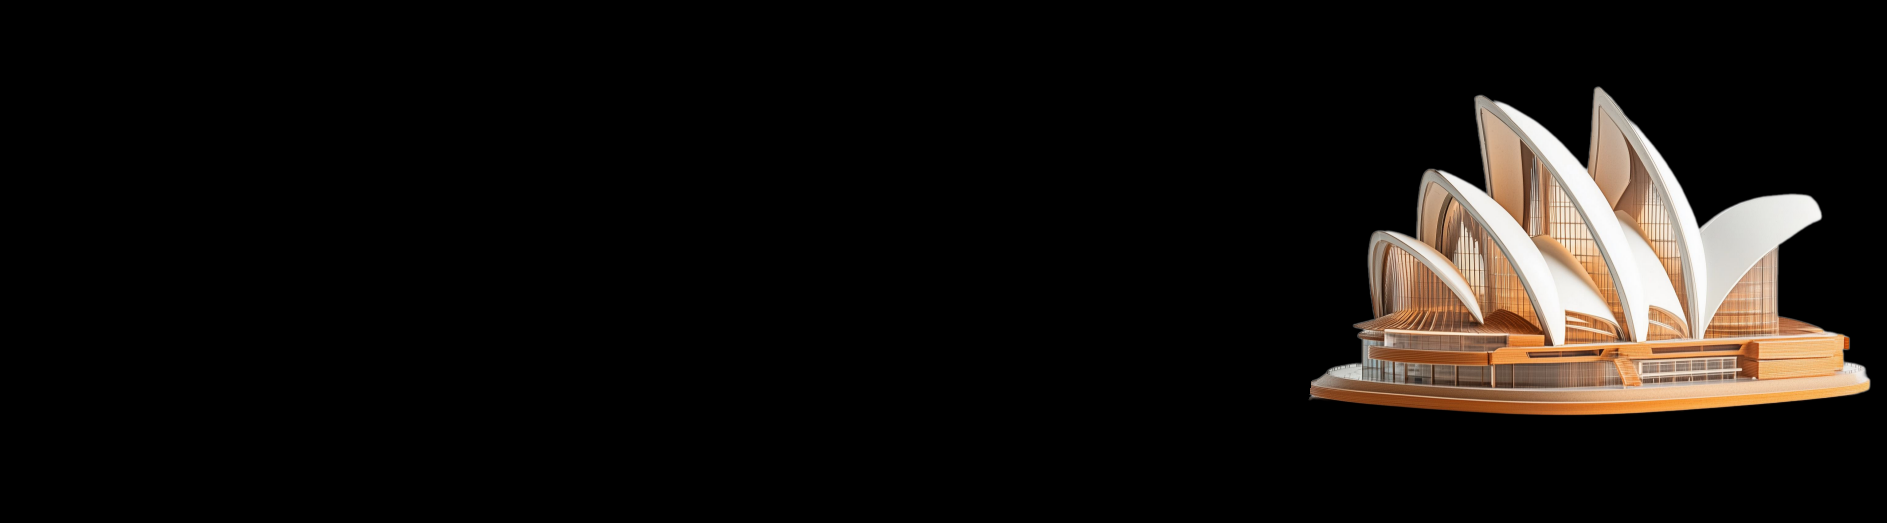
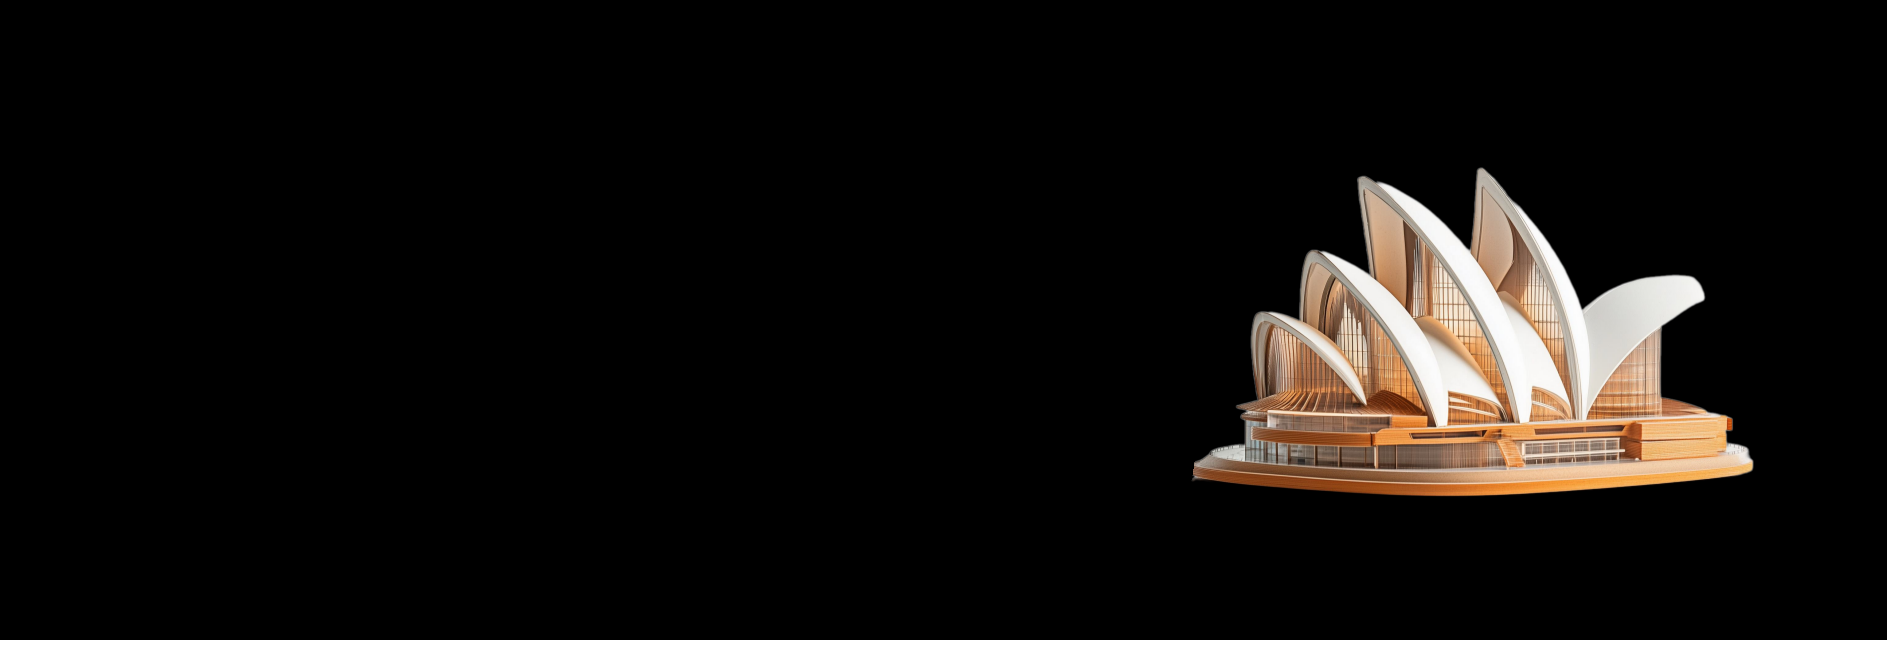
Carrousel a ficar composto
Falta colocar as setas visíveis

Changed region(s): [[0.6147, 0.153, 1.0, 0.7954], [0.0, 0.979, 1.0, 1.0]]

diff --git a/index.html b/index.html
@@ -5,17 +5,16 @@
 
 <head>
   <meta charset="utf-8">
-  <!-- <link href="https://cdn.jsdelivr.net/npm/bootstrap@5.3.3/dist/css/bootstrap.min.css" rel="stylesheet"-->
-  <link rel="stylesheet" href="css\style.css">
+  <!-- <link href="https://cdn.jsdelivr.net/npm/bootstrap@5.3.3/dist/css/bootstrap.min.css" rel="stylesheet"> -->
+  <link rel="stylesheet" href="assets/css/style.css">
 
 </head>
 
 <body>
-
   <header> <!--menu -->
     <nav class="navbar navbar-expand-lg ">
       <div class="container-fluid">
-        <img src="img/logoipl.png" id="logo" alt="Logo" width="200">
+        <img src="assets/img/logoipl.png" id="logo" alt="Logo" width="200">
       </div>
       <button class="navbar-toggler" type="button" data-bs-toggle="collapse" data-bs-target="#navbarNavAltMarkup"
         aria-controls="navbarNavAltMarkup" aria-expanded="false" aria-label="Toggle navigation">
@@ -24,9 +23,9 @@
       <div class="collapse navbar-collapse" id="navbarNavAltMarkup">
         <div class="navbar-nav">
           <a class="nav-link active" href="#">Home</a>
-          <a class="nav-link" href="#">Países</a>
-          <a class="nav-link" href="#">Loja</a>
-          <a class="nav-link" href="#">Sobre</a>
+          <a class="nav-link active" href="#">Países</a>
+          <a class="nav-link active" href="#">Loja</a>
+          <a class="nav-link active" href="#">Sobre</a>
           <a class="nav-linkcontactos" href="#">Contactos</a>
         </div>
       </div>
@@ -34,62 +33,69 @@
     </nav>
   </header>
 
-  <section>
-    <div id="carouselExampleDark" class="carousel carousel-dark slide">
+    <section>
+
+      <div id="carouselExampleDark" class="carousel carousel-dark slide">
       <div class="carousel-indicators">
-        <button type="button" data-bs-target="#carouselExampleDark" data-bs-slide-to="0" class="active"
-          aria-current="true" aria-label="Slide 1"></button>
+        <button type="button" data-bs-target="#carouselExampleDark" data-bs-slide-to="0" class="active" aria-current="true" aria-label="Slide 1"></button>
         <button type="button" data-bs-target="#carouselExampleDark" data-bs-slide-to="1" aria-label="Slide 2"></button>
         <button type="button" data-bs-target="#carouselExampleDark" data-bs-slide-to="2" aria-label="Slide 3"></button>
       </div>
-
-      <!-- CRIAR COLUNAS  -- utilizar o row -- setas do carrousel utilizar align center -->
       <div class="carousel-inner">
-        <div class="carousel-item active" data-bs-interval="890">
-          <div class="d-flex flex-column justify-content-center align-items-left h-100">
-            <img src="img/japao.png" class="d-block w-100 " alt="japao">
-          </div>
-          <div class="d-flex flex-column justify-content-center align-items-left h-100"></div>
+        <div class="carousel-item active" data-bs-interval="10000">
+          <img src="assets/img/japao.png" class="d-block w-100" alt="japão">
           <div class="carousel-caption d-none d-md-block">
-            <h5>Descobre o Japão</h5>
-            <div class="textojapao">
-              <p>Faz uma viagem pelos destinos mais deslumbrantes do mundo. Das ruas vibrantes de Nova
-                Iorque às antigas ruínas de Roma, cada imagem revela um lugar à espera de ser explorado.
-                Quer seja para aventura, relaxamento ou descoberta, encontra o teu próximo destino connosco</p>
-              <div>
-                <button type="button" class="maisinfo">Explorar</button>
+            <row>
+              <div class="col-md-6">
+                <div class="textojapao">
+                  <h5>Descobre o Japão</h5>
+                  <br>
+                  <p>Faz uma viagem pelos destinos mais deslumbrantes do mundo. Das ruas vibrantes de Nova Iorque às antigas ruínas de Roma, cada imagem revela um lugar à espera de ser explorado.</p> 
+                  <p>Quer seja para aventura, relaxamento ou descoberta, encontra o teu próximo destino connosco</p>
+                  <div class="col-md-1">
+                  <button type="button" class="botaojapao">Explorar</button>
+                  </div>
+                </div>
               </div>
-
-            </div>
+            </row>
+        </div>
+        </div>     
+          <div class="carousel-item" data-bs-interval="2000">
+          <img src="assets/img/autralia.png" class="d-block w-100" alt="australia">
+          <div class="carousel-caption d-none d-md-block">
+            <row>
+              <div class="col-md-6">
+                <div class="textoaustralia">
+                  <h5>Descobre a Austrália</h5>
+                  <br>
+                  <p>Descobre o vibrante Grande Barreira de Coral, a famosa Ópera de Sydney e o vasto Outback.</p> 
+                  <p>A Austrália oferece uma vida selvagem, costas ensolaradas e paisagens diversificada</p>
+                  <div class="col-md-1">
+                  <button type="button" class="botaoaustralia">Explorar</button>
+                </div>
+                </div>
+              </div>
+            </row>
+         <div class="carousel-item">
+          <img src="assets/img/logoipl.png"d-block w-100" alt="...">
+          <div class="carousel-caption d-none d-md-block">
+            <h5>Third slide label</h5>
+            <p>Some representative placeholder content for the third slide.</p>
           </div>
         </div>
       </div>
-      <div class="carousel-item" data-bs-interval="2000">
-        <img src="/img/autralia.png" class="d-block w-100" alt="autralia">
-        <div class="carousel-caption d-none d-md-block">
-          <h5>Descobre a Austrália</h5>
-          <p>Some representative placeholder content for the second slide.</p>
-        </div>
-      </div>
-      <div class="carousel-item">
-        <img src="..." class="d-block w-100" alt="...">
-        <div class="carousel-caption d-none d-md-block">
-          <h5>Third slide label</h5>
-          <p>Some representative placeholder content for the third slide.</p>
-        </div>
-      </div>
+      <button class="carousel-control-prev" type="button" data-bs-target="#carouselExampleDark" data-bs-slide="prev">
+        <span class="carousel-control-prev-icon" aria-hidden="true"></span>
+        <span class="visually-hidden">Previous</span>
+      </button>
+      <button class="carousel-control-next" type="button" data-bs-target="#carouselExampleDark" data-bs-slide="next">
+        <span class="carousel-control-next-icon" aria-hidden="true"></span>
+      </button>
+        <span class="visually-hidden">Next</span>
     </div>
-    <button class="carousel-control-prev" type="button" data-bs-target="#carouselExampleDark" data-bs-slide="prev">
-      <span class="carousel-control-prev-icon" aria-hidden="true"></span>
-      <span class="visually-hidden">Previous</span>
-    </button>
-    <button class="carousel-control-next" type="button" data-bs-target="#carouselExampleDark" data-bs-slide="next">
-      <span class="carousel-control-next-icon" aria-hidden="true"></span>
-      <span class="visually-hidden">Next</span>
+   
 
-    </button>
 
-    </div>
 
 
 

diff --git a/assets/css/style.css b/assets/css/style.css
@@ -1,3 +1,4 @@
+/* Menu*/
 a.nav-linkcontactos {
     
     border: 2px solid rgb(5, 143, 207);
@@ -6,6 +7,12 @@ a.nav-linkcontactos {
     text-align: center;
     margin-right: 100px;
     text-decoration:none;
+   
+}
+
+a.nav-linkcontactos:hover {
+    background-color: blue;
+    
 }
 
 .navbar-nav { /*Para alinhar os botões do menu*/
@@ -25,35 +32,70 @@ a.nav-linkcontactos {
 }
 
 section {
-    margin-top: 50px;
-    margin-bottom: 50px;
+    margin-top: 40px;
+    margin-bottom: 40px;
 }
 
 /*Estrutura do carousel*/
+
 .carousel-caption  {
     top: 60px;
     text-align: left;
    
 }   
 
-.carousel-caption h5 {
-    font-size: 30px;
-    color: black;
-    left: 10px;
-    
-}
 
-.textojapao {
-    font-size: 14px;
+ /*conteudo japao*/
+.textojapao h5 {
+    font-size: 50px;
     color: black;
+    font-weight: bold;
     left: 10px;
     text-align: left;
     
 }
 
-/* botão do carousel */
-.maisinfo {
+.textojapao p {
+    font-size: 14px;
+    color: black;
+    left: 10px;
+    text-align: left;
+   
+}
+
+/*conteudo australia*/
+
+ .textoaustralia h5 {
+    font-size: 50px;
+    color: white;
+    font-weight: bold;
+    left: 10px;
+    text-align: left;
+    
+}
+
+.textoaustralia p {
+    font-size: 14px;
+    color: white;
+    left: 10px;
+    text-align: left;
+   
+}
+
+
+/* botões do carousel - explorar */
+.botaojapao {
     padding: 5px 20px;
     border : 2px solid rgb(5, 143, 207);
+    
+    
+}
+
+.botaoaustralia {
+    padding: 5px 20px;
+    border : 2px solid rgb(255, 251, 251);
+    background-color: black;
+    color: white;
+       
     
 }
